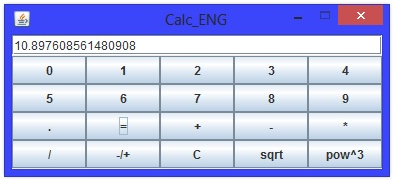
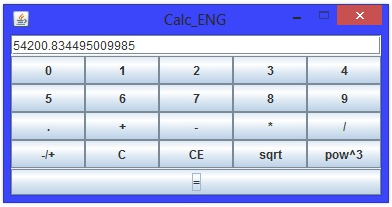
char(String);

diff --git a/Calc.java b/Calc.java
@@ -10,7 +10,7 @@ import javax.swing.JTextField;
 public class Calc {
     JPanel winContent,p1;
     JTextField display;
-    JButton b0,b1,b2,b3,b4,b5,b6,b7,b8,b9,bPtn,bEquals,bSum,bSub,bMul,bDiv,bOps,bBack,bSqrt,bPow;
+    JButton b0,b1,b2,b3,b4,b5,b6,b7,b8,b9,bPtn,bEquals,bSum,bSub,bMul,bDiv,bOps,bBack,bse,bSqrt,bPow;
     
 Calc(){
         winContent = new JPanel();
@@ -29,13 +29,13 @@ Calc(){
         b8=new JButton("8");
 		b9=new JButton("9");
 		bPtn=new JButton(".");
-		bEquals=new JButton("=");
-        bSum=new JButton("+");
+		bSum=new JButton("+");
 		bSub=new JButton("-");
 		bMul=new JButton("*");
 		bDiv=new JButton("/");
         bOps=new JButton("-/+");
 		bBack=new JButton("C");
+		bse=new JButton("CE");
 		bSqrt=new JButton("sqrt");
 		bPow=new JButton("pow^3");
         p1=new JPanel();
@@ -44,9 +44,13 @@ Calc(){
         
         p1.add(b0);p1.add(b1);p1.add(b2);p1.add(b3);p1.add(b4);p1.add(b5);
         p1.add(b6);p1.add(b7);p1.add(b8);p1.add(b9);
-        p1.add(bPtn);p1.add(bEquals);p1.add(bSum);p1.add(bSub);p1.add(bMul);
-        p1.add(bDiv);p1.add(bOps);p1.add(bBack);p1.add(bSqrt);p1.add(bPow);
+        p1.add(bPtn);p1.add(bSum);p1.add(bSub);p1.add(bMul);
+        p1.add(bDiv);p1.add(bOps);p1.add(bBack);p1.add(bse);p1.add(bSqrt);p1.add(bPow);
         winContent.add("Center",p1);
+        
+        bEquals=new JButton("=");
+        winContent.add("South",bEquals);
+        
         JFrame frame=new JFrame("Calc_ENG");
         frame.setContentPane(winContent);
         frame.pack();
@@ -56,7 +60,7 @@ Calc(){
         frame.setDefaultCloseOperation(JFrame.EXIT_ON_CLOSE);
         
         CalcEngine calcen=new CalcEngine(this);
-        bPow.addActionListener(calcen);bSqrt.addActionListener(calcen);
+        bPow.addActionListener(calcen);bSqrt.addActionListener(calcen);bse.addActionListener(calcen);
         bBack.addActionListener(calcen);bOps.addActionListener(calcen);
         bEquals.addActionListener(calcen);bSum.addActionListener(calcen);
         bSub.addActionListener(calcen);bMul.addActionListener(calcen);
@@ -102,6 +106,9 @@ else if(src==parent.bBack){
       String temp=parent.display.getText();
       parent.display.setText(temp.substring(0,temp.length()-1));
                       }
+else if(src==parent.bse){
+	parent.display.setText("");
+                      }
 else if(src==parent.bSqrt){
       double fm=Double.parseDouble(parent.display.getText());
       double sm=Double.parseDouble(parent.display.getText());
@@ -118,6 +125,7 @@ else {String  clickedButtonLabel=clickedButton.getText();
             }
 
 }	
+@SuppressWarnings("unused")
 public static void main(String[] args) {
       Calc calc = new Calc();
     }

diff --git a/README.md b/README.md
@@ -1,14 +1,14 @@
 # Калькулятор  Calc_ENG
-
 ![](calc.png)
-
 ## В данной статье мы рассмотрим процесс создания простой программы,
 
 ### которая состоит из 21 кнопки , и дисплея калькулятора .
 
-✦ 1) При нажатии цифры текущая цифра добавляется на дисплей .
+✦ 0) При нажатии цифры текущая цифра добавляется на дисплей .
 
-✦ 2) При нажатии кнопки "С" удаляется последняя цифра .
+✦ 1) При нажатии кнопки "С" удаляется последняя цифра .
+
+✦ 2) При нажатии кнопки "СE" дисплей очищается .
 
 ✦ 3) При нажатии на операцию введённое число сбрасывается .
 
@@ -23,5 +23,6 @@
 ✦ 8) При желании , можно зафоловить мой аккаунт в https://twitter.com/rodomod .
 
 ✦ 9) Десятичная точка "."   как Вы знаете разделяет целую и дробные части числа .
+
 
 ![](calc.png)
